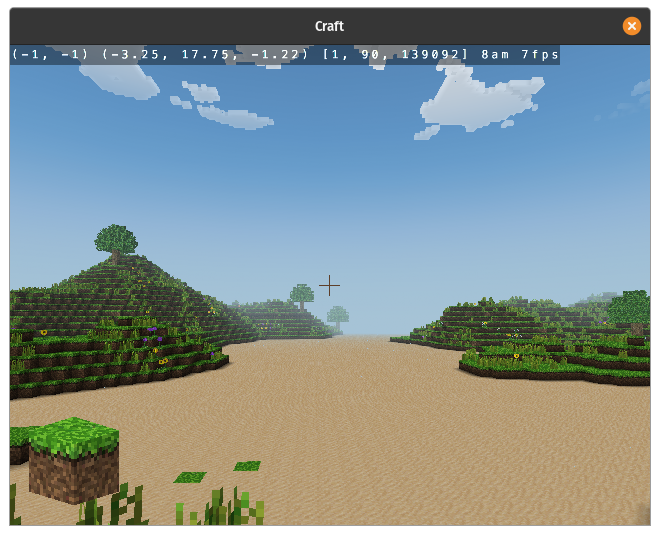
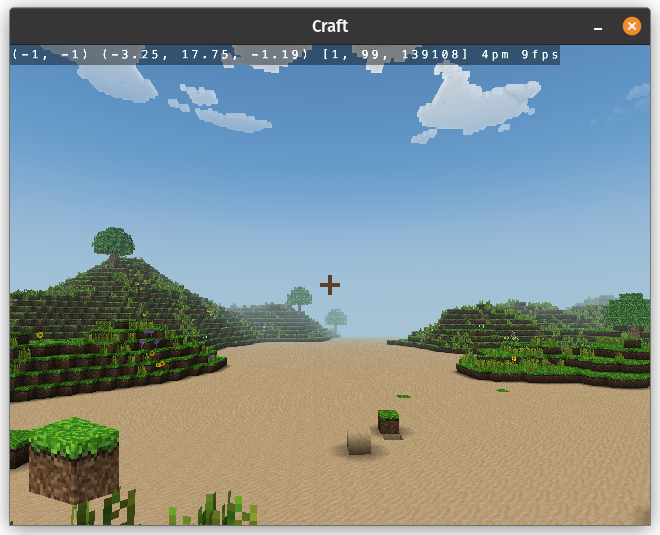
Update README and Craft screenshot to latest PGL

diff --git a/README.md b/README.md
@@ -5,11 +5,12 @@ PortableGL
 
 
 In a nutshell, PortableGL is an implementation of OpenGL 3.x core (mostly; see [GL Version](https://github.com/rswinkle/PortableGL#gl-version))
-in clean C99 as a single header library (in the style of the [stb libraries](https://github.com/nothings/stb)).
+in clean C99 as a single header library (in the style of the [stb libraries](https://github.com/nothings/stb)).  This means it compiles cleanly as C++
+and can be easily added to almost any codebase.
 
 It can theoretically be used with anything that takes a framebuffer/texture as input (including just writing images to disk manually or using something like stb_image_write) but all the demos use SDL2 and it currently only supports 8-bits per channel RGBA as a target (and also for textures).
 
-Its goals are,
+Its goals are, roughly in order of priority,
 
 1. Portability
 2. Matching the API within reason, at the least matching features/abilities
@@ -18,9 +19,21 @@ Its goals are,
 5. Speed
 
 Obviously there are trade-offs between several of those.  An example where 4 trumps 2 (and arguably 3) is with shaders.  Rather than
-write or include a GLSL parser and have a built in compiler or interpreter, shaders are special C functions that match a specific prototype.
+write or include a GLSL parser and have a built in compiler or interpreter, shaders are special C/C++ functions that match a specific prototype.
 Uniforms are another example where 3 and 4 beat 2 because it made no sense to match the API because we can do things so much simpler by
 passing a pointer to a user defined struct (see the examples).
+
+## What PortableGL Is Not
+
+It is *not* a drop in replacement for libGL the way Mesa and some other software rendering libraries are.  Porting a real OpenGL program to PGL will
+require some code changes though depending on the program that could be as little as a dozen lines or so.  In many cases the biggest changes
+required have nothing to do with PGL vs OpenGL directly, but having to change the windowing system.  If you want to use PGL for full window software rendering
+you need a system that supports blitting raw pixels to the screen.  Libraries like GLFW which are designed to be used with real OpenGL do not have that capability
+because everything is done through the OpenGL context.  There is some talk of adding some kind of
+[support for real software rendering](https://github.com/glfw/glfw/issues/589) but I don't see it going anywhere because it just doesn't make sense
+for GLFW's goals.  SDL is great but it is a rather large dependency that links dozens of external libraries.  So what else is out there?
+I've seen many lighter windowing/input libraries out there that wrap platform specific toolkits that would work, most recently
+[RGFW](https://github.com/ColleagueRiley/RGFW/tree/main) which recently added a [PGL example](https://github.com/ColleagueRiley/RGFW/blob/main/examples/portableGL/main.c).
 
 Download
 ========
@@ -88,11 +101,34 @@ I recently came across a comment regarding PortableGL that essentially asked, "w
 in a dying language?"
 
 While I would argue that OpenGL is far from dead and C [isn't even close to dying](https://www.tiobe.com/tiobe-index/),
-there are many [good reasons](https://chipmunk-physics.net/release/ChipmunkLatest-Docs/#Intro-WhyC) to write a library
-in C.  Beyond those, OpenGL is a C API so it would be weird if you couldn't use it from C.  Writing it in clean C means it
-compiles as C++ too.  Lastly, I just like C.  It was my first language and is still my favorite for a host of reasons.
-Hey, if it's good enough for Bellard, it's certainly good enough for me.
+there are many good reasons to write a *library* in C.
 
+Here are a few libraries written in C, along with some links to their reasoning:
+
+* [SQLite](https://www.sqlite.org/whyc.html)
+* [Lua](https://www.lua.org/about.html)
+* [Chipmunk Physics](https://chipmunk-physics.net/release/ChipmunkLatest-Docs/#Intro-WhyC)
+* [SDL](https://libsdl.org/)
+* [GLFW](https://www.glfw.org/)
+* [stb](https://github.com/nothings/stb/tree/master) The OG single header libraries like stb_image. His own answers to why [C](https://github.com/nothings/stb/blob/master/docs/stb_howto.txt#L73) and why [single-headers](https://github.com/nothings/stb/blob/master/README.md#why-single-file-headers)
+* [Sokol](https://github.com/floooh/sokol?tab=readme-ov-file#why-c). He [has a](https://floooh.github.io/2017/07/29/sokol-gfx-tour.html) [whole](https://floooh.github.io/2018/05/01/cpp-to-c-size-reduction.html) [series](https://floooh.github.io/2018/06/02/one-year-of-c.html)
+[of](https://floooh.github.io/2018/06/17/handles-vs-pointers.html) [blog](https://floooh.github.io/2019/09/27/modern-c-for-cpp-peeps.html) [posts](https://floooh.github.io/2020/08/23/sokol-bindgen.html)
+* [miniaudio](https://miniaud.io/)
+* many many more...
+
+If you read through any of those you may have noticed a pattern.  Choosing to write a *library* in the C++-clean subset of C
+gives you automatic C/C++ support, the most portability across platforms, the easiest integration into other projects, and the easiest bindings
+to other languages. Keeping the library small with few or no dependencies only enhances all those benefits and makes it even easier to use.
+
+All that said, if I were ever going to actually write a real/large 3D application or game I would probably use C++ for the benefits
+like operator overloading, just like I do with the majority of the demos.  Choosing a language for a large user level application
+is an entirely different animal from choosing one for a library.  On the other hand, there are still reasons to use C, they're just
+mostly more subjective/personal.  On the other other hand, I don't think the ["It Runs Doom"](https://knowyourmeme.com/memes/it-runs-doom)
+meme would exist if it were written in C++ and who doesn't want their application to run on toasters and oscilloscopes 3 decades after
+it was released?
+
+Lastly, I just like C.  It was my first language and is still my favorite for a host of reasons.
+Hey, if it's good enough for Bellard, it's certainly good enough for me.
 
 Documentation
 =============
